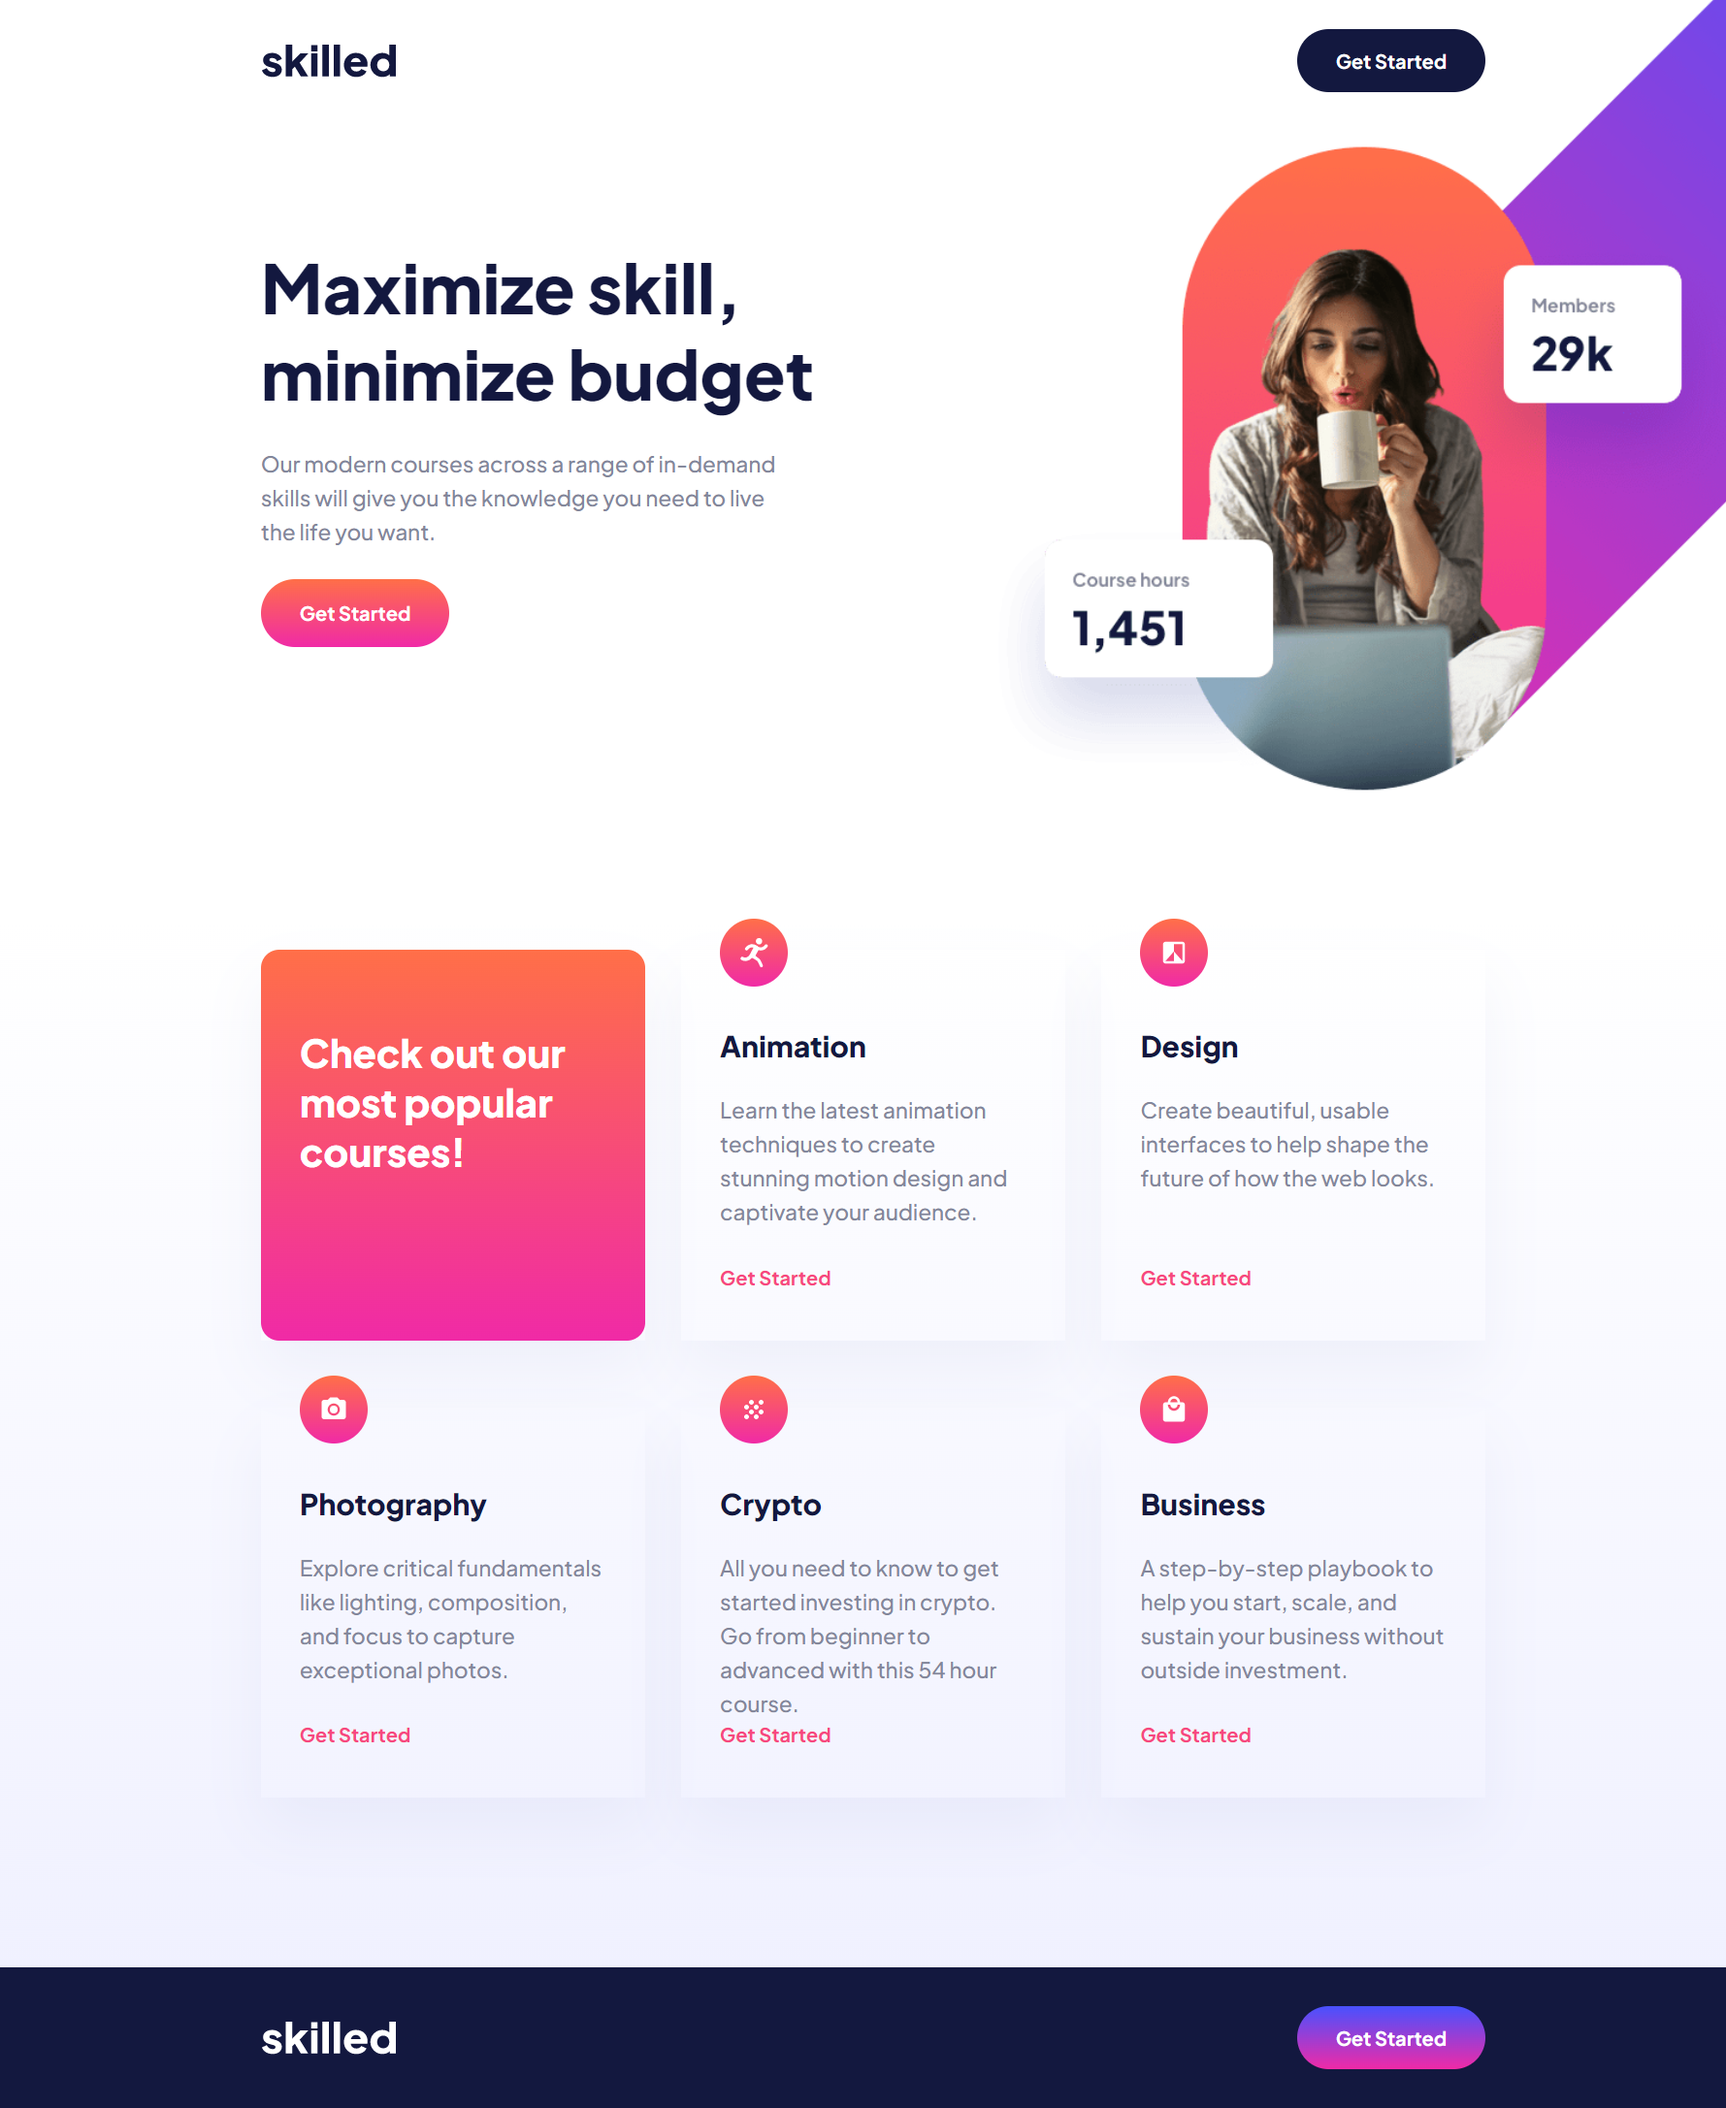
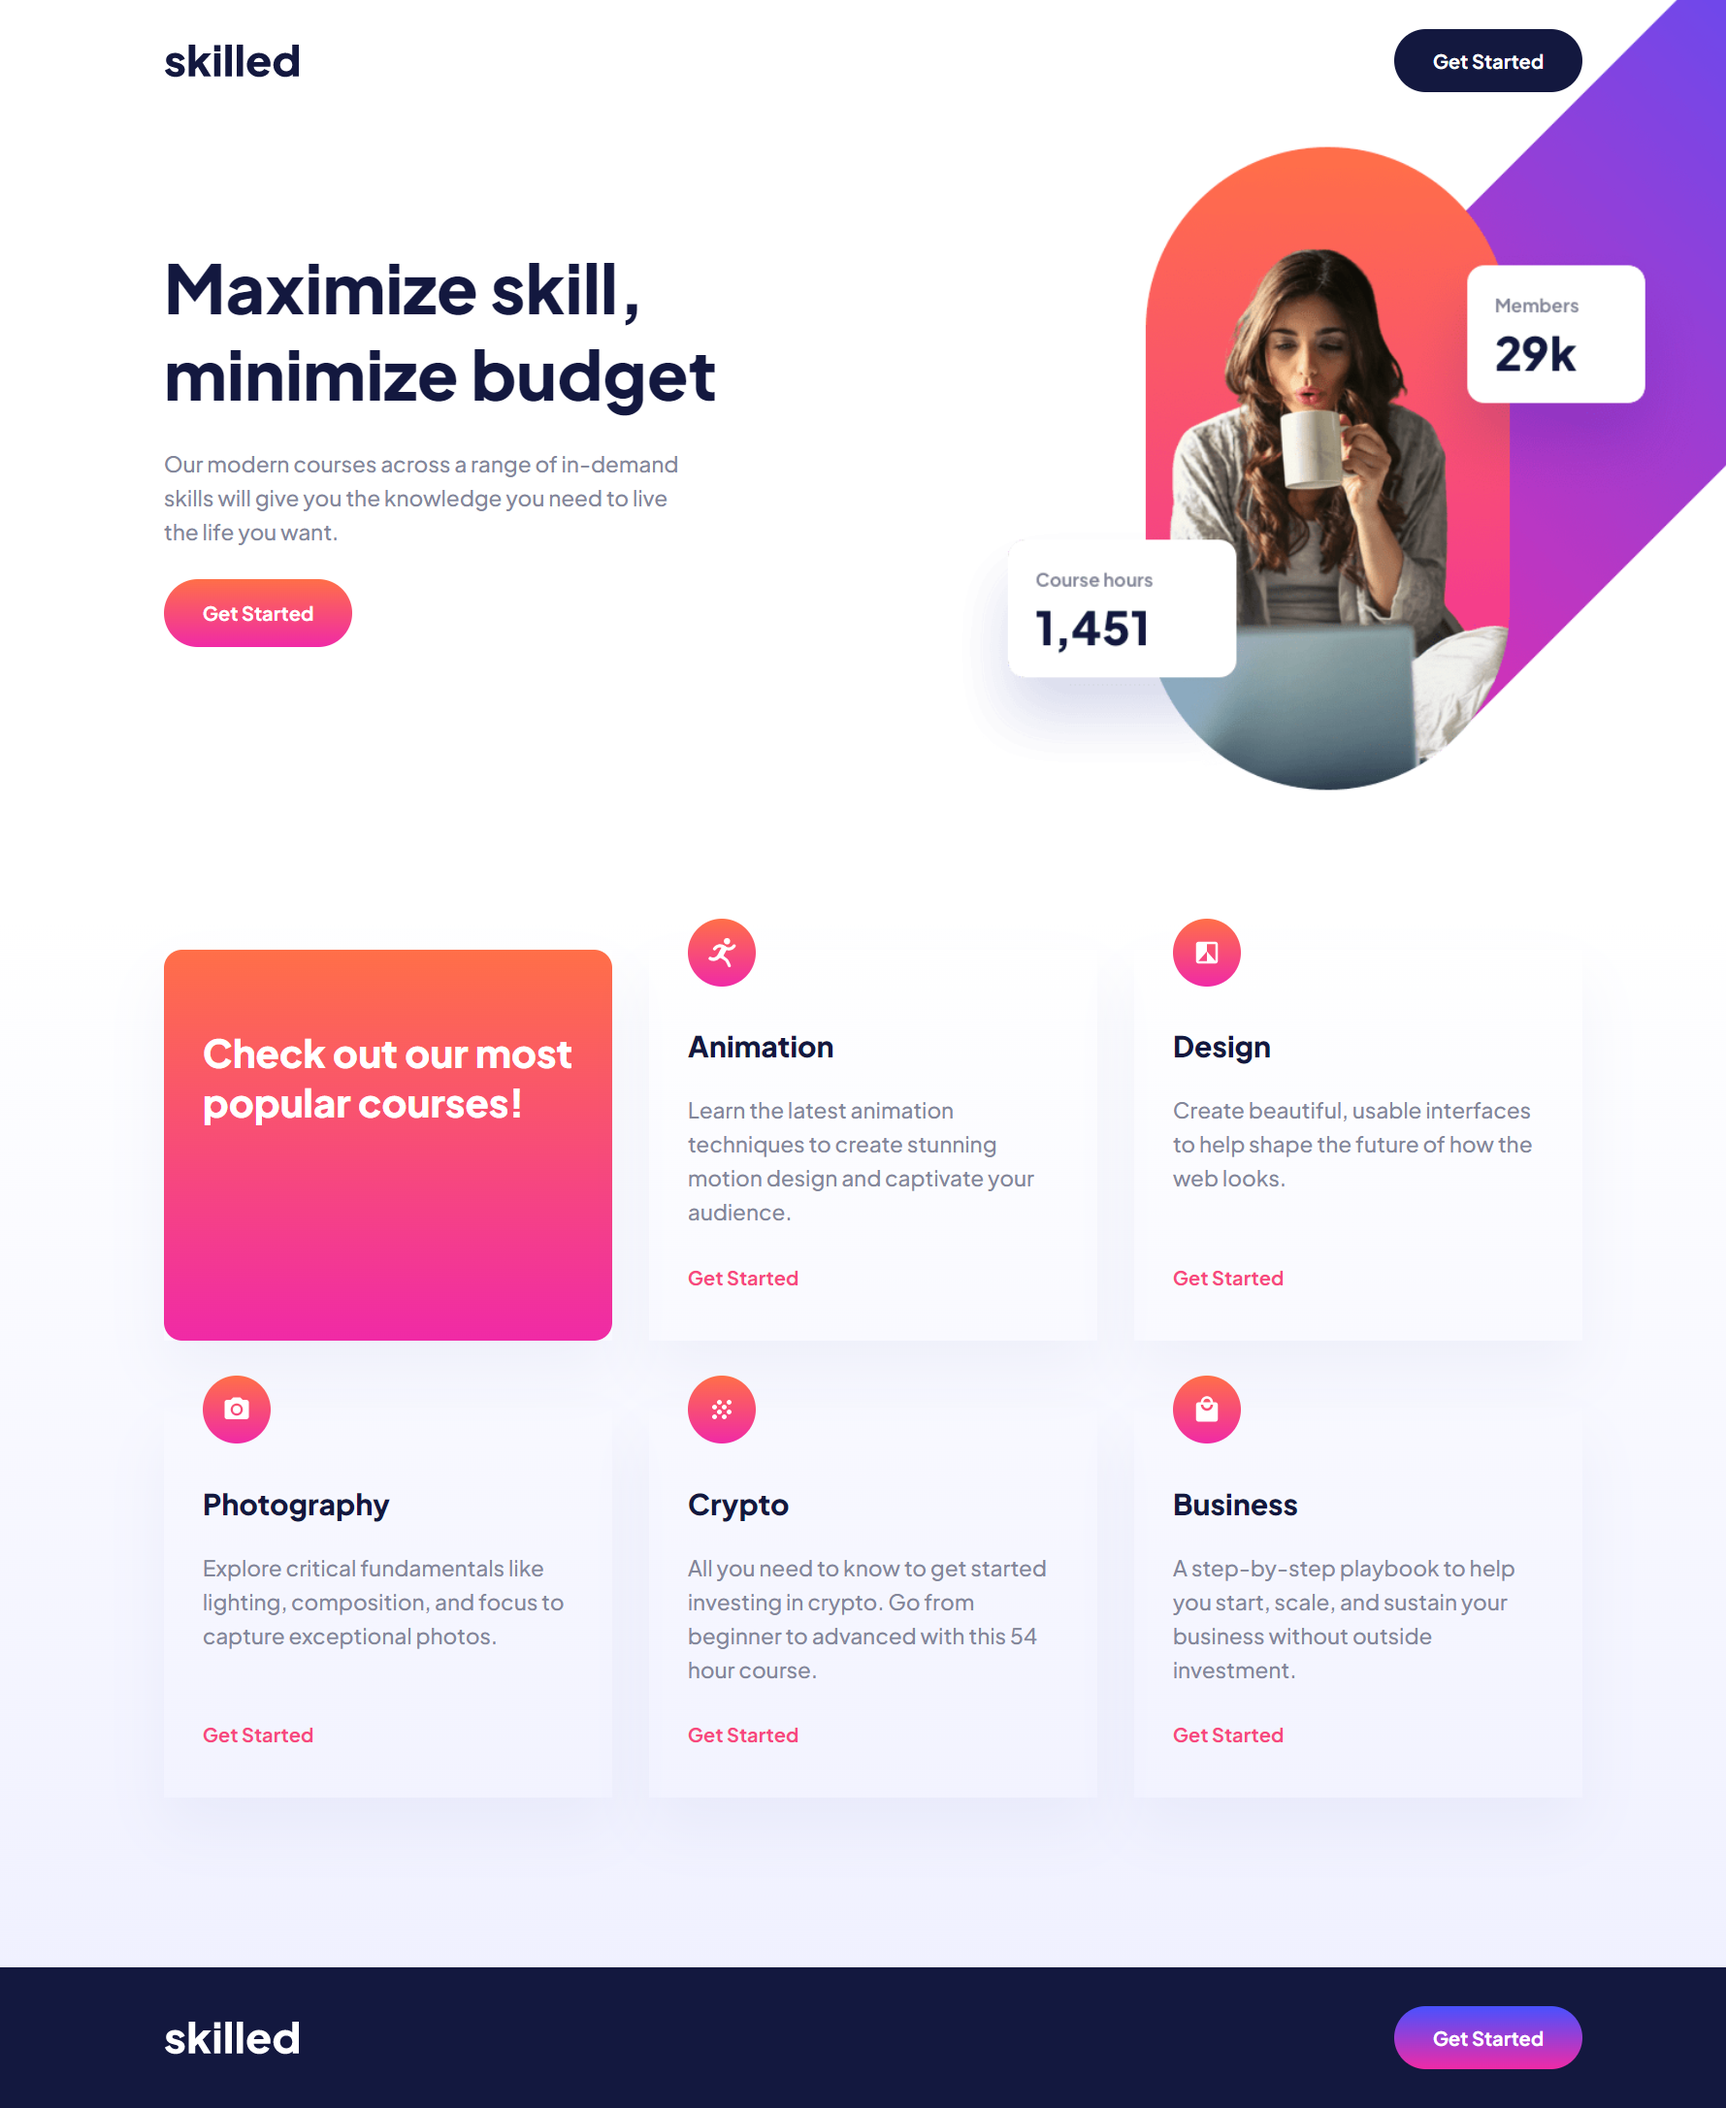
design fixes

diff --git a/src/App.tsx b/src/App.tsx
@@ -9,13 +9,13 @@ const App = () => {
       {Header}
       <main>
         <section id="hero-section" className="mt-[38px] md:mt-[125px] pb-[66px] md:pb-[226px]">
-          <div className="container">
+          <div className="container max-w-full">
             <p className="w-full md:w-[398px] lg:w-[440px] xl:w-[525px] mb-[44px] md:mb-0">
               <h1>Maximize skill,<br />minimize budget</h1>
               <p className="pg-md w-full lg:w-[445px] my-[25px]">Our modern courses across a range of in-demand skills will give you the knowledge you need to live the life you want.</p>
               <button type="button" className="p-btn bg-orange-gradient text-white rounded-btn">Get Started</button>
             </p>
-            <picture className="relative h-auto w-11/12 md:w-[640px] lg:w-[815px] xl:w-[990px] md:absolute md:-top-8 lg:-top-28 xl:-top-44 md:-right-[250px] lg:-right-[360px] xl:-right-[300px]">
+            <picture className="relative h-auto w-11/12 md:w-[640px] lg:w-[815px] xl:w-[990px] md:absolute md:-top-8 lg:-top-28 xl:-top-44 md:-right-[250px] lg:-right-[360px] xl:-right-[330px]">
               <source media="(min-width:1024px)" srcSet="/assets/image-hero-desktop.png" />
               <source media="(min-width:768px)" srcSet="/assets/image-hero-tablet.png" />
               <img src="/assets/image-hero-mobile.png" alt="Woman drinking coffee in front of laptop, working on courses. Course statistics are displayed on the side: 'Course hours: 1,451', 'Members joined: 29,000+'." />
@@ -23,8 +23,8 @@ const App = () => {
           </div>
         </section>
         <section id="testimonials-section" className="pt-[24px] pb-[140px] bg-gradient-to-b from-white/0 to-[#F0F1FF]">
-          <div className="container">
-            <div className="mx-auto grid grid-cols-1 md:grid-cols-2 xl:grid-cols-3 gap-x-0 md:gap-x-[11px] lg:gap-x-[30px] gap-y-[55px]">
+          <div className="container md:max-w-[768px] lg:max-w-[1024px] xl:max-w-full">
+            <div className="mx-auto grid grid-cols-1 md:grid-cols-2 xl:grid-cols-3 gap-x-0 md:gap-x-[11px] xl:gap-x-[30px] gap-y-[55px]">
               <Card title={"Check out our most popular courses!"} largeTitle gradientBg />
               <Card icon={"/assets/icon-animation.svg"} iconAlt={""} title={"Animation"} body={"Learn the latest animation techniques to create stunning motion design and captivate your audience."} showLink />
               <Card icon={"/assets/icon-design.svg"} iconAlt={""} title={"Design"} body={"Create beautiful, usable interfaces to help shape the future of how the web looks."} showLink />

diff --git a/src/index.css b/src/index.css
@@ -65,7 +65,7 @@ p {
 figure {
   box-shadow: 0px 25px 50px 0px #06168D0B;
   height: auto;
-  width: 350px;
+  width: auto;
 }
 
 a:hover,
@@ -100,22 +100,31 @@ footer {
   h1 {
     font-size: 46px;
   }
+
+  figure {
+    width: 340px;
+  }
 }
 
 @media screen and (max-width: 1023.5px) {
   h1 {
     font-size: 40px;
   }
+
+  figure {
+    width: 330px;
+  }
 }
 
 
 @media screen and (max-width: 767.5px) {
-  .card {
+  figure {
     max-width: 450px;
   }
 
   figure.popular-card {
     height: auto;
+    width: auto;
   }
 
   .popular-card>figcaption {
@@ -148,5 +157,9 @@ footer {
   .card a {
     position: relative;
     bottom: -15px;
+  }
+
+  figure {
+    width: auto;
   }
 }

diff --git a/src/components/layout/Footer.tsx b/src/components/layout/Footer.tsx
@@ -1,6 +1,6 @@
 const Footer = (
     <footer className="w-full bg-navy">
-        <div className="container flex flex-1 justify-between items-center gap-2 sm:gap-0 flex-wrap sm:flex-nowrap text-white py-[32px]">
+        <div className="container max-w-full flex flex-1 justify-between items-center gap-2 sm:gap-0 flex-wrap sm:flex-nowrap text-white py-[32px]">
             <img src="/assets/logo-light.svg" alt="Skilled Logo" className="block" width={111} />
             <button type="button" className="p-btn rounded-btn text-white bg-blue-gradient">Get Started</button>
         </div>

diff --git a/src/components/layout/Header.tsx b/src/components/layout/Header.tsx
@@ -1,5 +1,5 @@
 const Header = (
-    <header className="container mt-[16px] md:mt-[24px] flex flex-1 justify-between items-center gap-2 sm:gap-0 flex-wrap sm:flex-nowrap">
+    <header className="container max-w-full mt-[16px] md:mt-[24px] flex flex-1 justify-between items-center gap-2 sm:gap-0 flex-wrap sm:flex-nowrap">
         <img src="/assets/logo-dark.svg" alt="Skilled Logo" className="block" width={111} />
         <button type="button" className="rounded-btn bg-navy p-btn text-white z-10">Get Started</button>
     </header>

diff --git a/tailwind.config.js b/tailwind.config.js
@@ -22,8 +22,9 @@ module.exports = {
       center: true,
       padding: {
         DEFAULT: '16px',
-        lg: '135px',
-        md: '45px',
+        xl: '135px',
+        lg: '90px',
+        md: '40px',
       }
     },
     borderRadius: {
